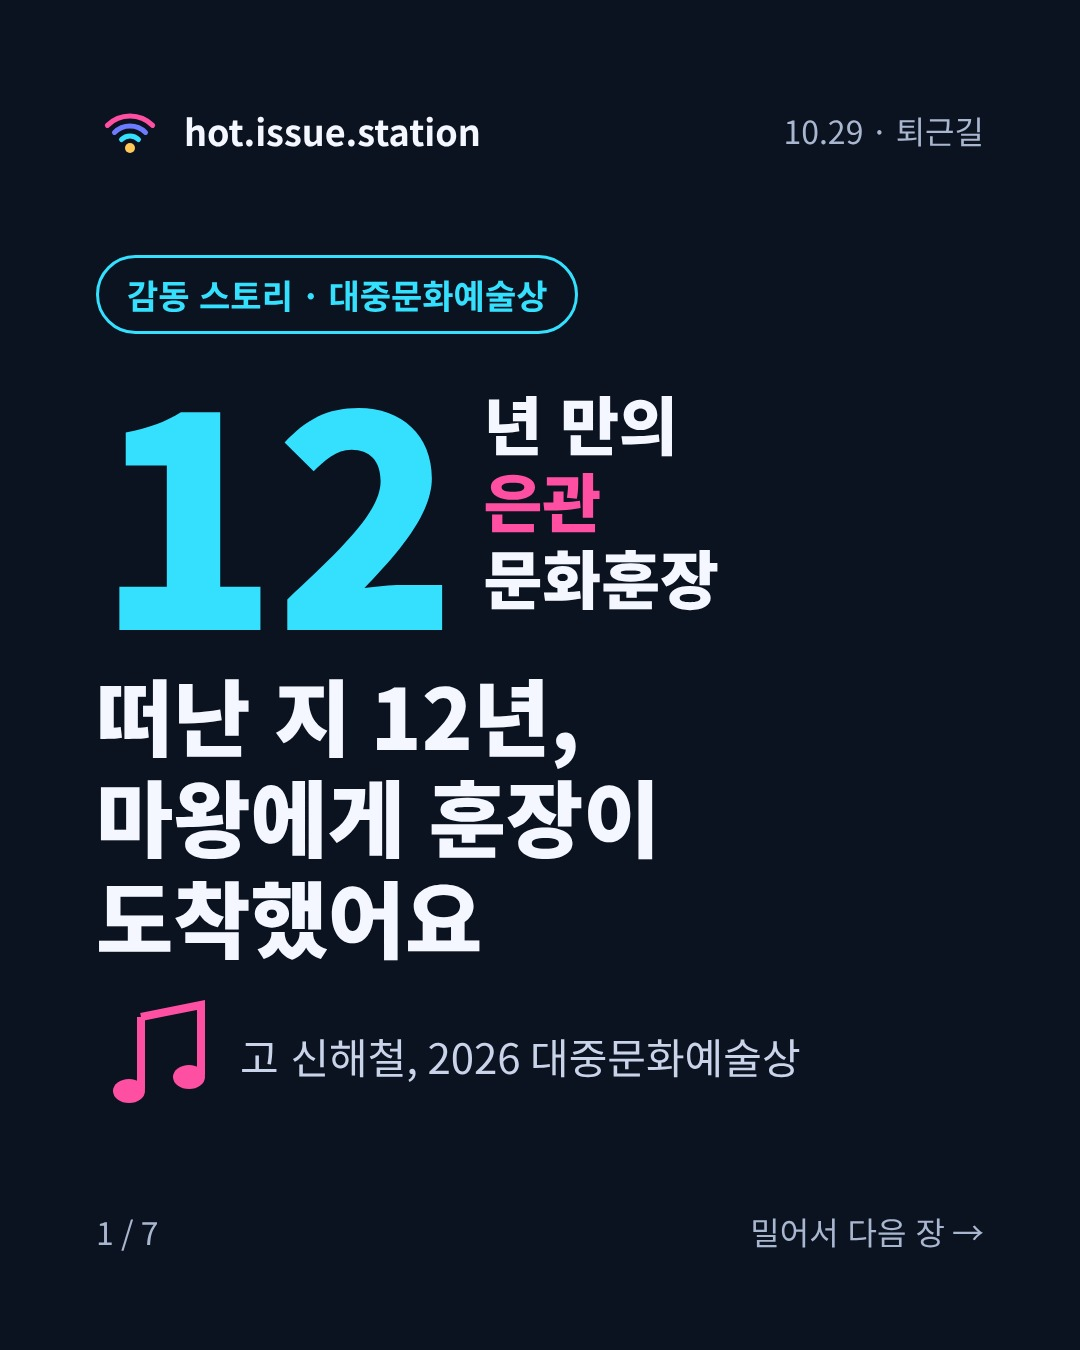
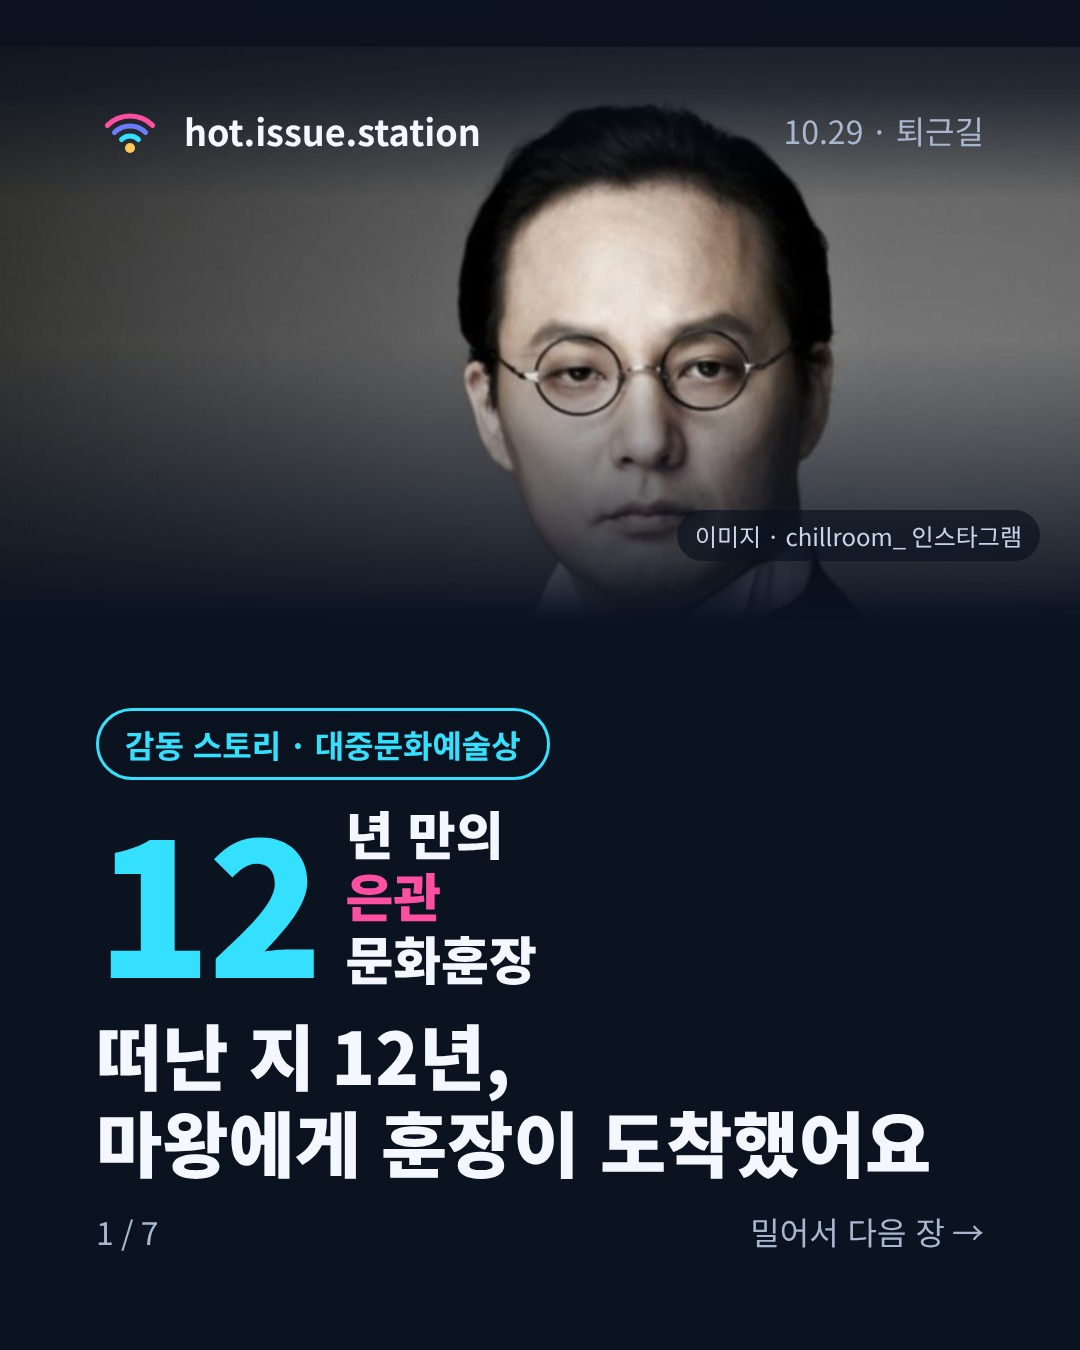
신해철 표지 사진 넣기, 삼성전자 헤드라인 카드 7장 추가, 사진 표기 위치 옵션
Claude-Session: https://claude.ai/code/session_017sdLagaiWb4rEASbYkm7nL

diff --git a/scripts/make_post.py b/scripts/make_post.py
@@ -211,7 +211,7 @@ def cover_photo(r, label):
     tag = E(r.get("photoLabel", ""))
     deco = (f'<div style="position:absolute;left:0;top:0;width:1080px;height:{ph}px;background:url({uri}) {pos}/cover no-repeat"></div>'
             f'<div style="position:absolute;left:0;top:0;width:1080px;height:{ph}px;background:linear-gradient(180deg,rgba({BGRGB},.92) 0%,rgba({BGRGB},.7) 14%,rgba({BGRGB},0) 32%,rgba({BGRGB},0) 55%,{BG} 100%)"></div>'
-            + (f'<div style="position:absolute;right:{180 if reel else 40}px;top:{ph - (300 if reel else 250)}px;padding:8px 18px;border-radius:999px;background:rgba({BGRGB},.7);color:{SOFT};font-size:24px">{tag}</div>' if tag else "")
+            + (f'<div style="position:absolute;{"left" if r.get("photoLabelLeft") else "right"}:{(180 if reel else 40) if not r.get("photoLabelLeft") else 40}px;top:{ph - (r.get("photoLabelUp", 300 if reel else 250))}px;padding:8px 18px;border-radius:999px;background:rgba({BGRGB},.7);color:{SOFT};font-size:24px">{tag}</div>' if tag else "")
             + inset_html(r, ph, reel))
     n = E(b.get("number", ""))
     size = 190 if len(b.get("number", "")) <= 2 else 160
